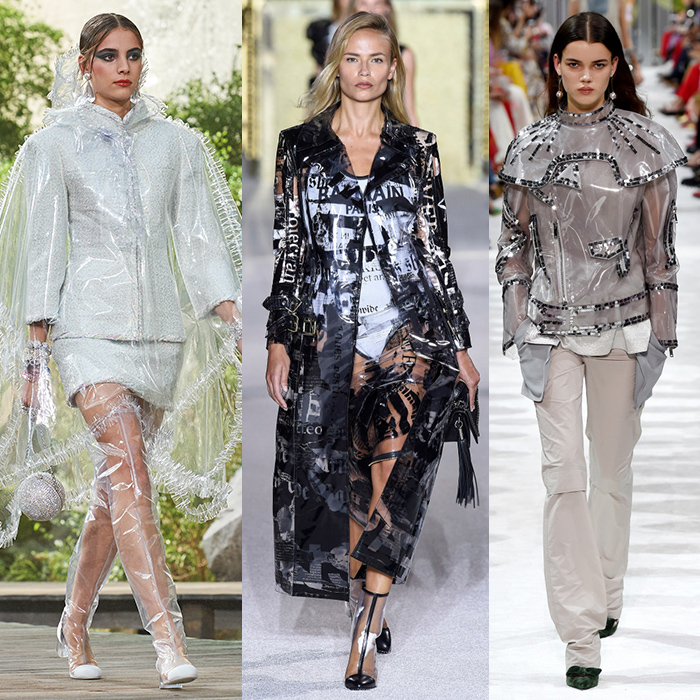
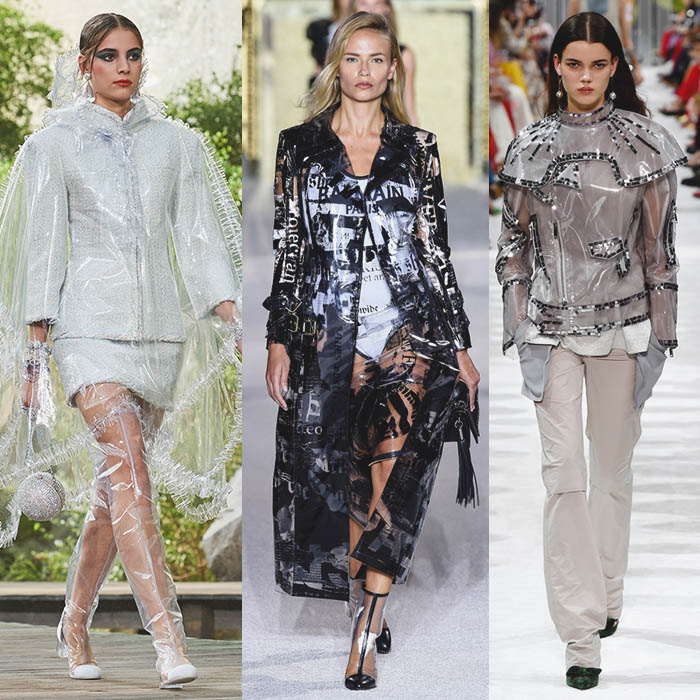
ปรับสีรูปนิสหน่อย

diff --git a/content-1.html b/content-1.html
@@ -21,21 +21,6 @@
     		body {color: #000000;} 
     		a:link {color: #f09488;} 
     		a:hover {color: #ed7263;} 
-
-.parallax {
-    /* The image used */
-    background-image: url("summer.jpg");
-
-    /* Set a specific height */
-    min-height: 500px; 
-
-    /* Create the parallax scrolling effect */
-    background-attachment: fixed;
-    background-position: center;
-    background-repeat: no-repeat;
-    background-size: cover;
-}
-
     	</style>
     </main>
     <div id="header">
@@ -80,22 +65,15 @@
 
 <section class="content">   
 <h1 class="title" style="font-family: Chonburi; padding-top: 5rem;padding-left: 50px;font-size: 2.5vw; color: #bf8f00;">สรุปเทรนด์ที่ต้องโดนจาก Spring/Summer 2018</h1>
-<body>
-
-<div class="parallax"></div>
-
-<div style="height:1000px;background-color: #f4d7d3;font-size:24px">Fashion Week Spring/Summer 2018 ของ 4 เมืองหลวงแห่งแฟชั่นได้ปิดม่านลงเป็นที่เรียบร้อย เชื่อว่าบนหน้าฟีดของสาวแฟชั่นทุกคนคงล้นไปด้วยข้อมูลรันเวย์รีพอร์ต สตรีทสไตล์สุดปัง และเหล่าเซเลบริตี้ชื่อก้องโลกที่มารวมตัวกัน ณ ฟรอนต์โรว์ของแบรนด์ระดับโลก เยอะแยะไปหมดจนจับต้นชนปลายไม่ถูกเลยใช่ไหมล่ะ เราจึงจัดการย่อยและรวบเทรนด์ที่น่าจับตามอง ถ้าชาว LOOQ&STYLE ที่กลัวช้าและไม่อยากพลาด เรามาดูบทสรุปของเทรนด์ Spring/Summer 2018 ไปพร้อม ๆ กันเลยค่า!
-
-</div>
-
-</body>
 
 
+<img src="assets/images/content/SPRING-SUMMER 2018/summer.jpg" style="height: 500px; width: 1280px;padding-left: 50px;">
 
-<!--<img src="assets/images/content/SPRING-SUMMER 2018/summer.jpg" style="height: auto; width: auto;">
-<div style="text-align: left; padding-left: 50px; padding-top: 10px;">-->
+<h2 class="content" style="font-family: Angsana New; padding-top: 2px; padding-left: 15px; font-size: 24px"><B>Fashion Week Spring/Summer 2018 ของ 4 เมืองหลวงแห่งแฟชั่นได้ปิดม่านลงเป็นที่เรียบร้อย เชื่อว่าบนหน้าฟีดของสาวแฟชั่นทุกคนคงล้นไปด้วยข้อมูลรันเวย์รีพอร์ต สตรีทสไตล์สุดปัง และเหล่าเซเลบริตี้ชื่อก้องโลกที่มารวมตัวกัน ณ ฟรอนต์โรว์ของแบรนด์ระดับโลก เยอะแยะไปหมดจนจับต้นชนปลายไม่ถูกเลยใช่ไหมล่ะ เราจึงจัดการย่อยและรวบเทรนด์ที่น่าจับตามอง ถ้าชาว LOOQ&STYLE ที่กลัวช้าและไม่อยากพลาด เรามาดูบทสรุปของเทรนด์ Spring/Summer 2018 ไปพร้อม ๆ กันเลยค่า!</h2><br><br>
 
-<!--wait<img src="assets/images/content/SPRING-SUMMER 2018/1-Trend-Denim.jpg" style="height: 250px; width: auto;">
+<div style="text-align: left; padding-left: 42px; padding-top: 2px;">
+
+<img src="assets/images/content/SPRING-SUMMER 2018/1-Trend-Denim.jpg" style="height: 250px; width: auto;">
 <img src="assets/images/content/SPRING-SUMMER 2018/2-Trend-Drape-Dress.jpg" style="height: 250px; width: auto;">
 <img src="assets/images/content/SPRING-SUMMER 2018/3-Trend-Fringes.jpg" style="height: 250px; width: auto;">
 <img src="assets/images/content/SPRING-SUMMER 2018/4-Trend-Glitz-and-Glam.jpg" style="height: 250px; width: auto;">
@@ -110,10 +88,9 @@
 <img src="assets/images/content/SPRING-SUMMER 2018/13-Trend-Sheer-factor.jpg" style="height: 250px; width: auto;">
 <img src="assets/images/content/SPRING-SUMMER 2018/14-Trend-Slip-Dress.jpg" style="height: 250px; width: auto;">
 <img src="assets/images/content/SPRING-SUMMER 2018/15-Trend-Trench-coat.jpg" style="height: 250px; width: auto;">
-</div>-->
+</div>
 
-<!--content
-<h2 class="content" style="font-family: Angsana New; padding-top: 15px;padding-left: 50px;font-size: 24px">Fashion Week Spring/Summer 2018 ของ 4 เมืองหลวงแห่งแฟชั่นได้ปิดม่านลงเป็นที่เรียบร้อย เชื่อว่าบนหน้าฟีดของสาวแฟชั่นทุกคนคงล้นไปด้วยข้อมูลรันเวย์รีพอร์ต สตรีทสไตล์สุดปัง และเหล่าเซเลบริตี้ชื่อก้องโลกที่มารวมตัวกัน ณ ฟรอนต์โรว์ของแบรนด์ระดับโลก เยอะแยะไปหมดจนจับต้นชนปลายไม่ถูกเลยใช่ไหมล่ะ เราจึงจัดการย่อยและรวบเทรนด์ที่น่าจับตามอง ถ้าชาว LOOQ&STYLE ที่กลัวช้าและไม่อยากพลาด เรามาดูบทสรุปของเทรนด์ Spring/Summer 2018 ไปพร้อม ๆ กันเลยค่า!</h2><br><br><br>-->
+
 
 
 
